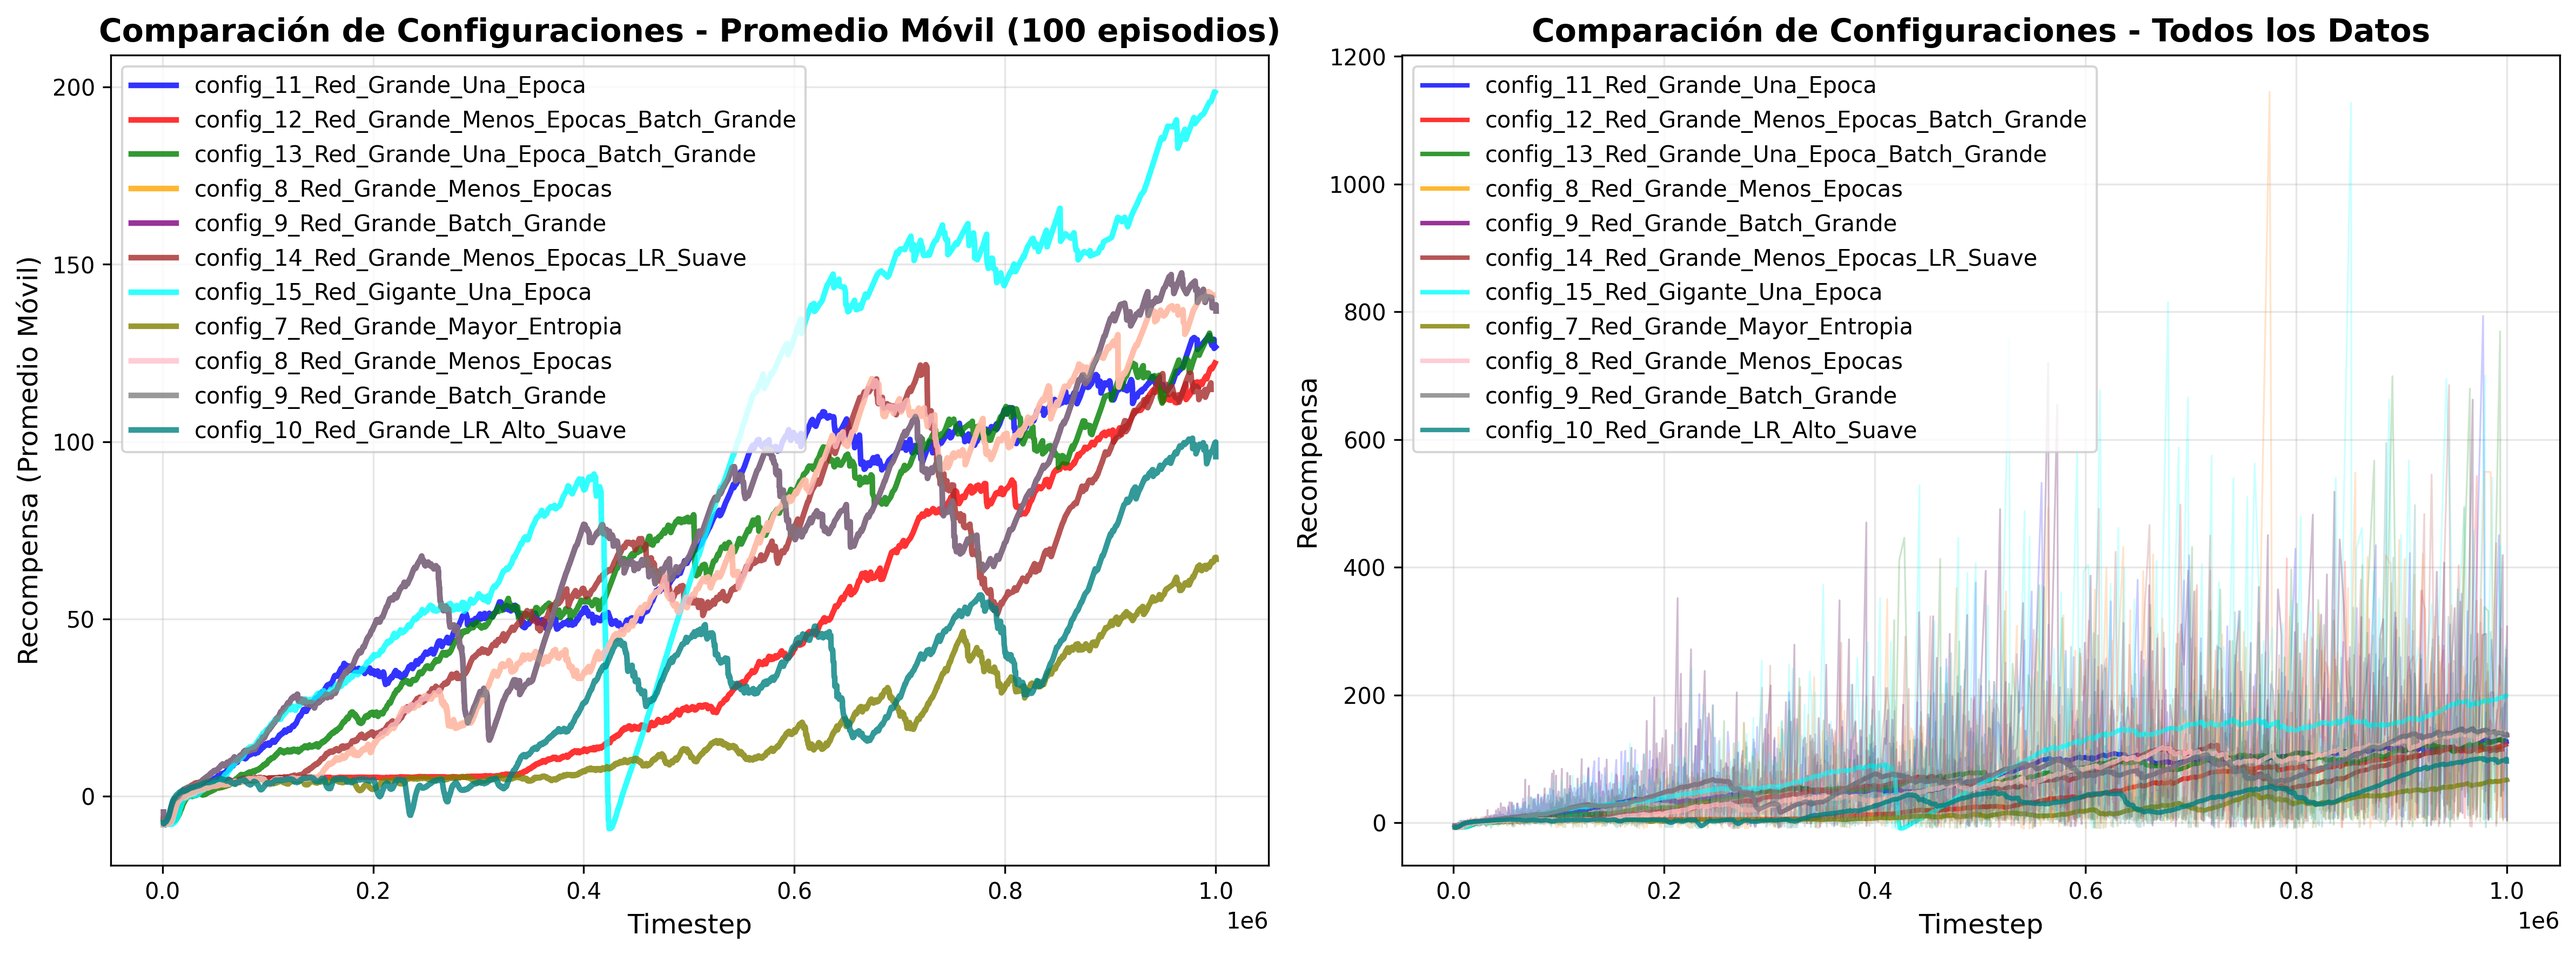
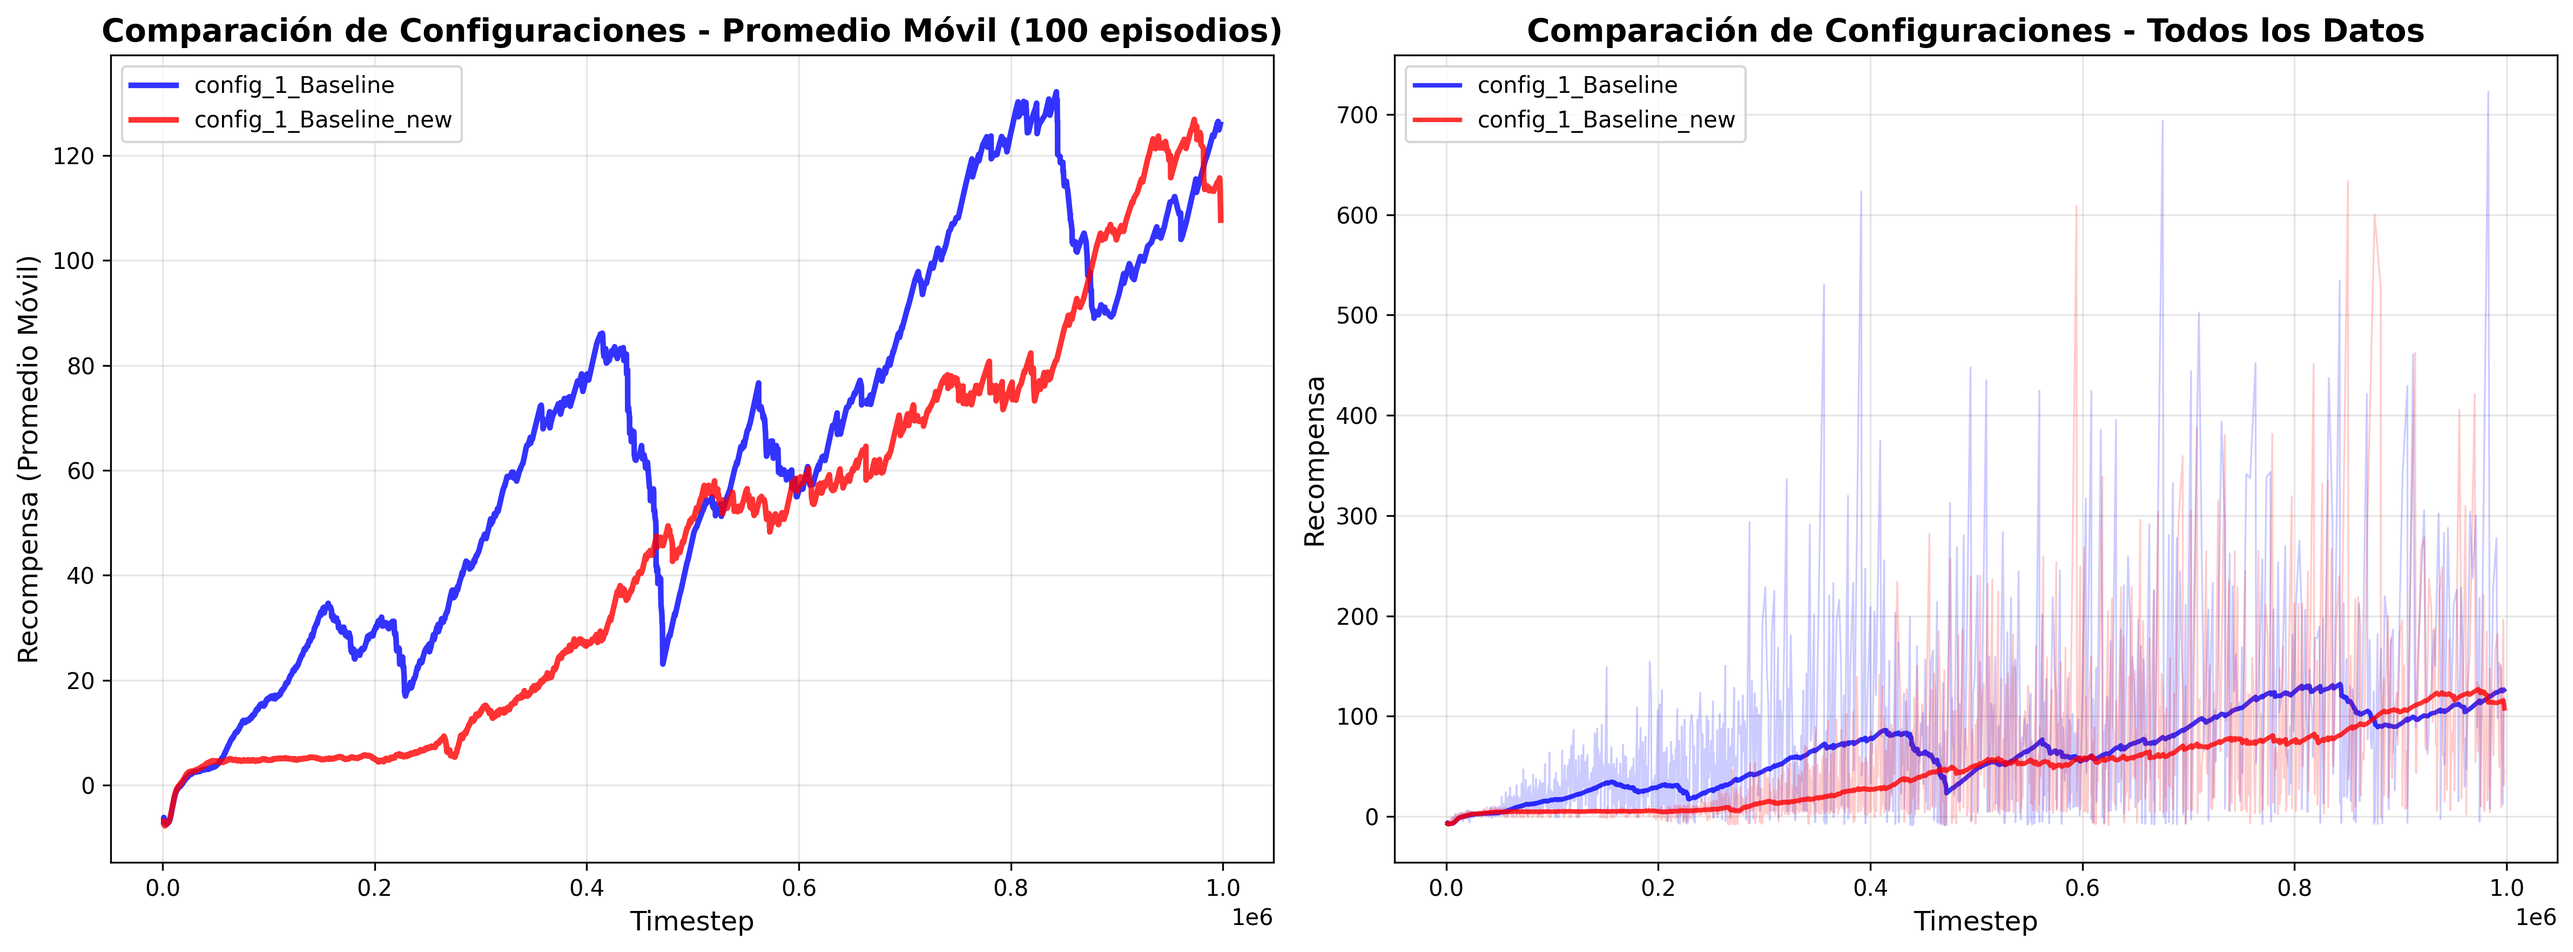
moviendo carpetas

diff --git a/src/plots/plotRewards.py b/src/plots/plotRewards.py
@@ -319,26 +319,28 @@ def plot_compare_configs(window_size=100, save_path=None):
         save_path: ruta para guardar la figura (opcional)
     """
     config_names = [
-        "config_11_Red_Grande_Una_Epoca",
-        "config_12_Red_Grande_Menos_Epocas_Batch_Grande",
-        "config_13_Red_Grande_Una_Epoca_Batch_Grande",
-        "config_8_Red_Grande_Menos_Epocas",
-        "config_9_Red_Grande_Batch_Grande",
-        "config_14_Red_Grande_Menos_Epocas_LR_Suave",
-        "config_15_Red_Gigante_Una_Epoca",
-        "config_4_Red_Grande"
-        "config_6_Red_Grande_LR_Bajo",
-        "config_7_Red_Grande_Mayor_Entropia",
-        "config_8_Red_Grande_Menos_Epocas",
-        "config_9_Red_Grande_Batch_Grande",
-        "config_10_Red_Grande_LR_Alto_Suave"
+        #"config_11_Red_Grande_Una_Epoca",
+        #"config_12_Red_Grande_Menos_Epocas_Batch_Grande",
+        #"config_13_Red_Grande_Una_Epoca_Batch_Grande",
+        #"config_8_Red_Grande_Menos_Epocas",
+        #"config_9_Red_Grande_Batch_Grande",
+        #"config_14_Red_Grande_Menos_Epocas_LR_Suave",
+        #"config_15_Red_Gigante_Una_Epoca",
+        #"config_4_Red_Grande"
+        #"config_6_Red_Grande_LR_Bajo",
+        #"config_7_Red_Grande_Mayor_Entropia",
+        #"config_8_Red_Grande_Menos_Epocas",
+        #"config_9_Red_Grande_Batch_Grande",
+        #"config_10_Red_Grande_LR_Alto_Suave"
         # "config_16_Red_Grande_Menos_Epocas",
         # "config_17_Red_Grande_Una_Epoca",
         # "config_18_Red_Gigante_Una_Epoca"
+        "config_1_Baseline",
+        "config_1_Baseline_new"
     ]
     
-    # colors = ['blue', 'red', 'green']
-    colors = ['blue', 'red', 'green', 'orange', 'purple', 'brown', 'cyan', 'magenta', 'olive', 'pink', 'gray', 'teal', 'navy']
+    colors = ['blue', 'red']
+    #colors = ['blue', 'red', 'green', 'orange', 'purple', 'brown', 'cyan', 'magenta', 'olive', 'pink', 'gray', 'teal', 'navy']
     
     fig, axes = plt.subplots(1, 2, figsize=(16, 6))
     
